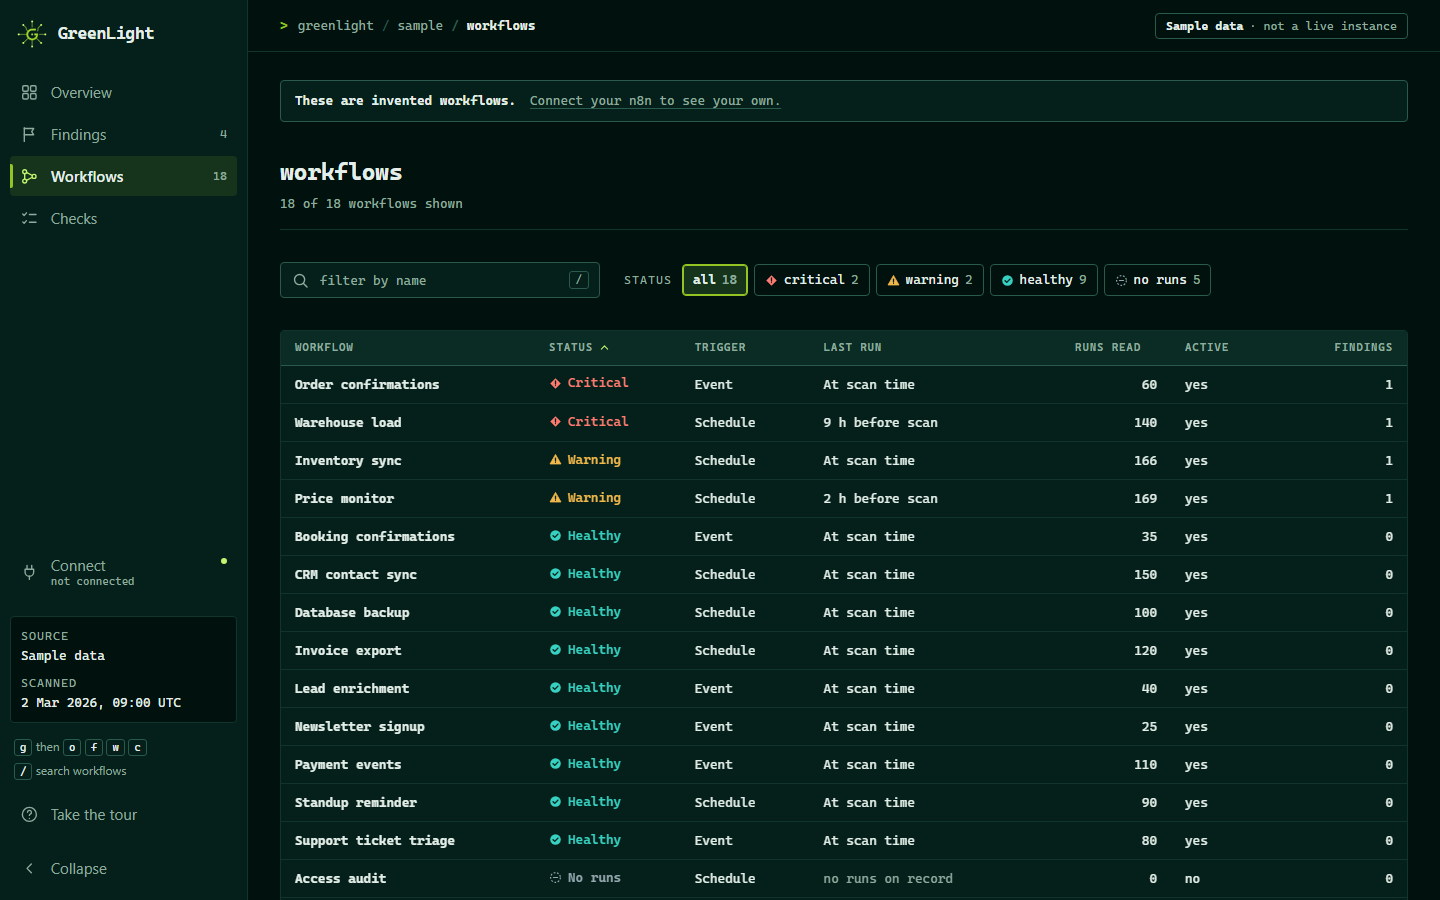
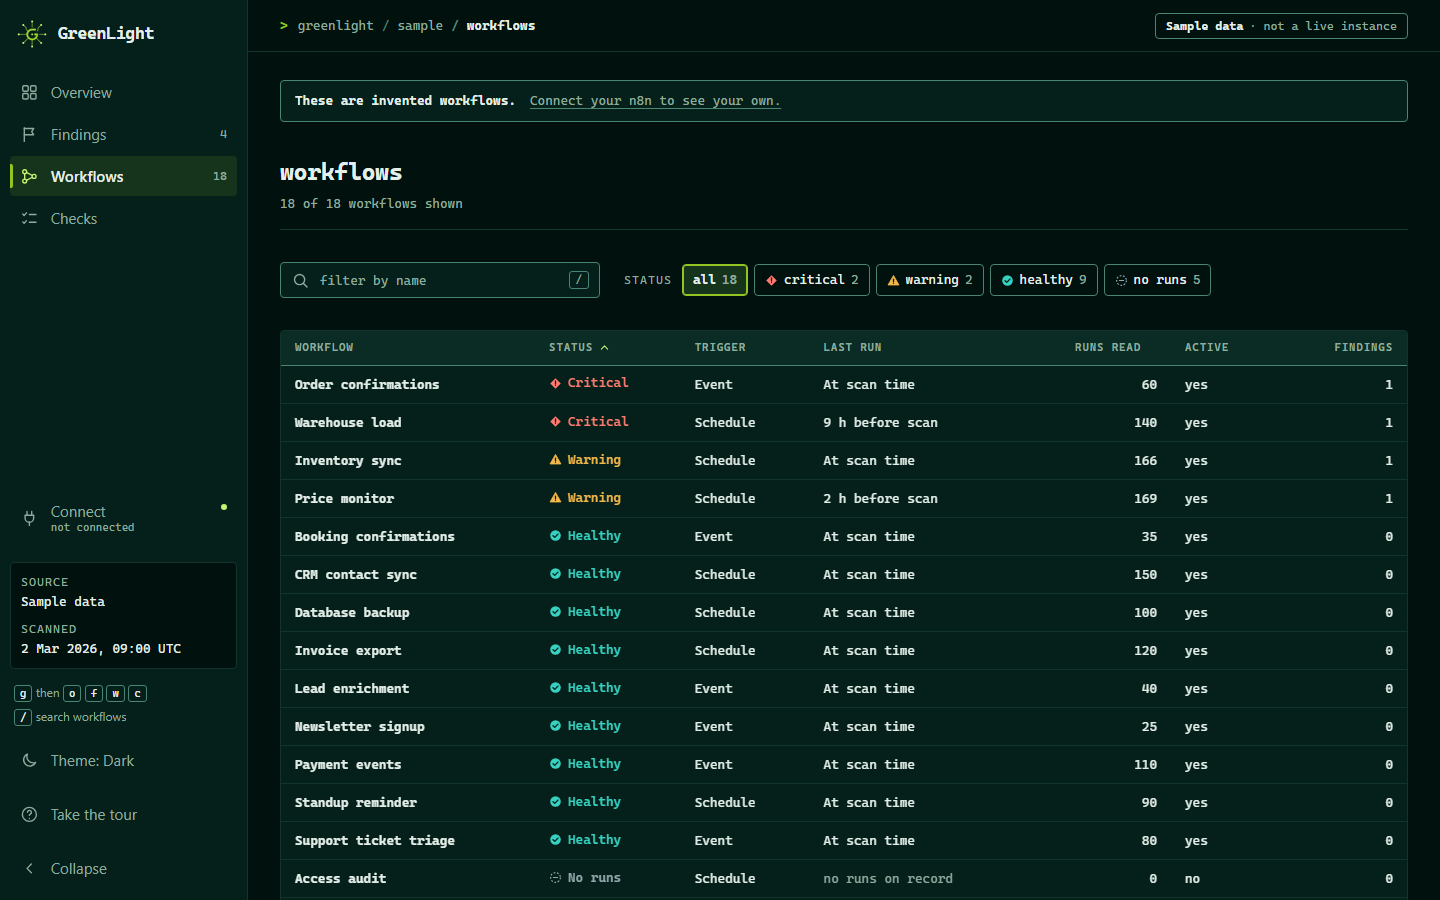
docs: show the theme switch and refresh the screenshots
Adds a light theme screenshot, notes where the switch is, and states the
browsers the dashboard needs for its colours.

Changed region(s): [[0.0, 0.6222, 0.125, 0.8711], [0.0312, 0.56, 0.0938, 0.5911]]

diff --git a/README.md b/README.md
@@ -113,8 +113,8 @@ example can show every check at once. `npm run example` reproduces it from
 | Each finding shows the evidence it rests on and what to review. | Every workflow that was checked, with its state, trigger and last run. |
 | ![The first-run tour pointing at the four states](docs/images/tour.png) | ![The page that connects your n8n, with its three steps](docs/images/setup.png) |
 | A short tour the first time you open it. | **Connect your n8n**: three steps and a live connection check. |
-
-<img src="docs/images/mobile.png" alt="The overview on a phone-sized screen" width="280">
+| ![The light theme](docs/images/light.png) | <img src="docs/images/mobile.png" alt="The overview on a phone-sized screen" width="240"> |
+| A light and a dark theme, with a switch. | It works on a phone-sized screen too. |
 
 - **Overview, Findings, Workflows and Checks.** The last page explains what each check looks for
   and the exact defaults it uses.
@@ -122,7 +122,10 @@ example can show every check at once. `npm run example` reproduces it from
   Without one it shows sample data, labelled as such.
 - **A first-run guide.** The first time you open it there is a short tour, and a **Connect your
   n8n** page that runs the same step-by-step check as `npm run doctor`.
-- **It works on a phone-sized screen** and follows your light or dark setting.
+- **Light and dark.** A switch in the sidebar, and in the top bar on a phone, cycles System, Light
+  and Dark and remembers the choice. System follows your operating system.
+- **It works on a phone-sized screen.** It needs a current browser: Chrome or Edge 123, Firefox 120
+  or Safari 17.5 and newer.
 - **Keyboard first.** `g` then `o`, `f`, `w` or `c` moves between pages, and `/` searches workflows.
 
 The dashboard has no login of its own. It listens on `127.0.0.1` and refuses other host names, so
